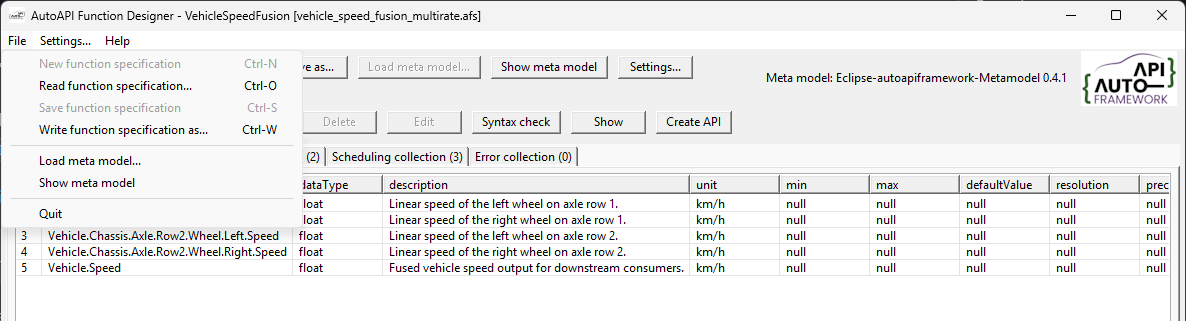
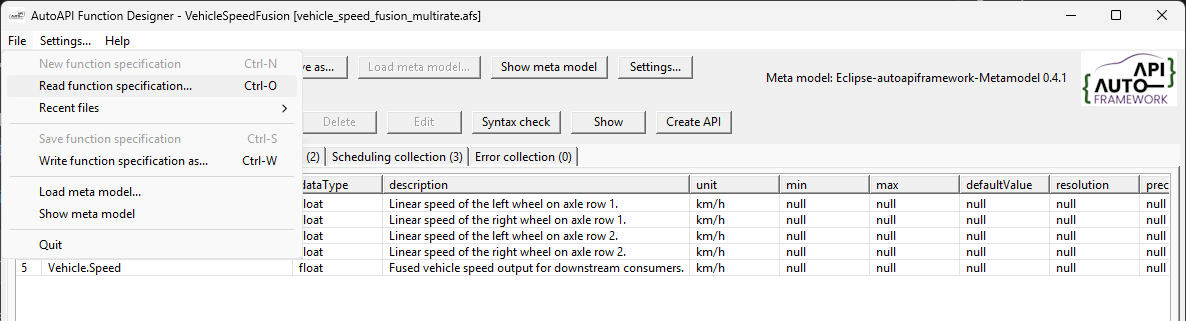
update documentation with latest added features

diff --git a/function_designer/src/main_frame.cpp b/function_designer/src/main_frame.cpp
@@ -1761,6 +1761,7 @@ namespace afd
         wxMessageBox( title + "\nThe automatic syntax check performed before saving a file to disk can be disabled.\n" +
                      "\nAdd 'null' to mandatory properties so that they are accepted by the syntax check.\n"         
                      "\nThe supervision node on the Scheduling collection is editable in the 'Edit scheduling item' dialog.\n" +
+                     "\nExisting *.afs files can be opened by dragging and dropping them onto the application window.\n" +
                      "\nAPI creation is not implemented yet.",
                      kApplicationName,
                      wxOK | wxICON_INFORMATION, this);

diff --git a/function_designer/README.md b/function_designer/README.md
@@ -175,6 +175,7 @@ ctest --test-dir build/windows-gcc-debug --output-on-failure
 | `AutoAPIFunctionDesigner_SyntaxCheck` | Command-line syntax check of an `.afs` file against the meta model. |
 | `AfsFileParser` | Command-line parser that reads an `.afs` file and prints the counts of enums, signals, parameters, schedules and errors. |
 | `function_designer_tests` | Unit tests built from `tests/yaml_tests.cpp` and the other sources listed in `CMakeLists.txt`, mainly covering the YAML parser and writer. |
+| `yaml_comment_tests` | Unit tests from `tests/yaml_comment_tests.cpp` that verify YAML comments are preserved during parse/write round trips. |
 | `syntax_check_tests` | Unit tests for the syntax check. |
 | `afs_file_parser_tests` | Unit tests for `AfsFileParser`. |
 

diff --git a/docs/doc/function_designer/executables.rst b/docs/doc/function_designer/executables.rst
@@ -46,6 +46,8 @@ Executables
        not as proof that the input file is syntactically correct or specification-compliant.  
    * - ``function_designer_tests.exe``
      - The test program built from yaml_tests.cpp and the other sources listed in CMakeLists.txt, mainly covering the YAML parser and writer.
+   * - ``yaml_comment_tests.exe``
+     - Unit tests that verify YAML comments are preserved during parse/write round trips.
    * - ``syntax_check_tests.exe``
      - The test program for the syntax check; the test source is syntax_check_tests.cpp.
    * - ``afs_file_parser_tests.exe``

diff --git a/docs/doc/function_designer/application_purpose_and_use.rst b/docs/doc/function_designer/application_purpose_and_use.rst
@@ -27,6 +27,11 @@ Graphical user interface (GUI)
 .. figure:: figures/meta_model_window.png
    :alt: meta model window
 
+.. tip::
+
+   In addition to the standard file open dialog, the application provides drag-and-drop functionality. 
+   For quick access, users can open an existing ``.afs`` file by dragging it from the operating system's file manager and dropping it onto the graphical user interface.
+
 Command-line application (CLI)
 ------------------------------ 
 
